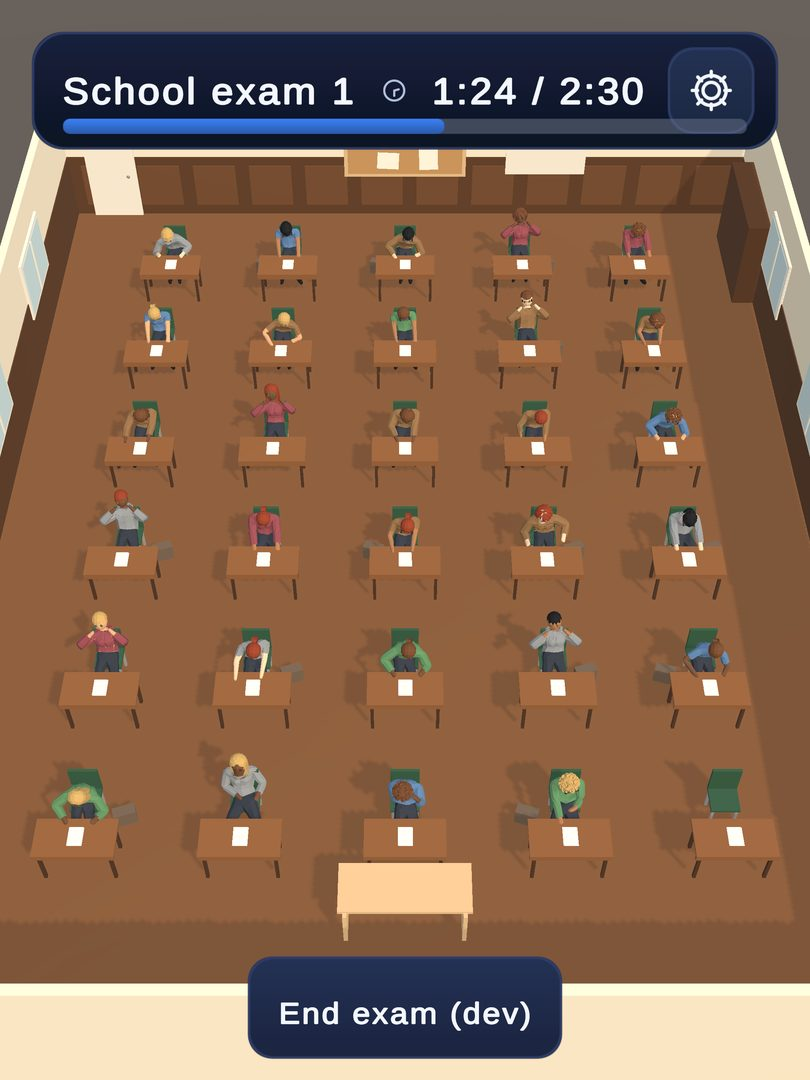
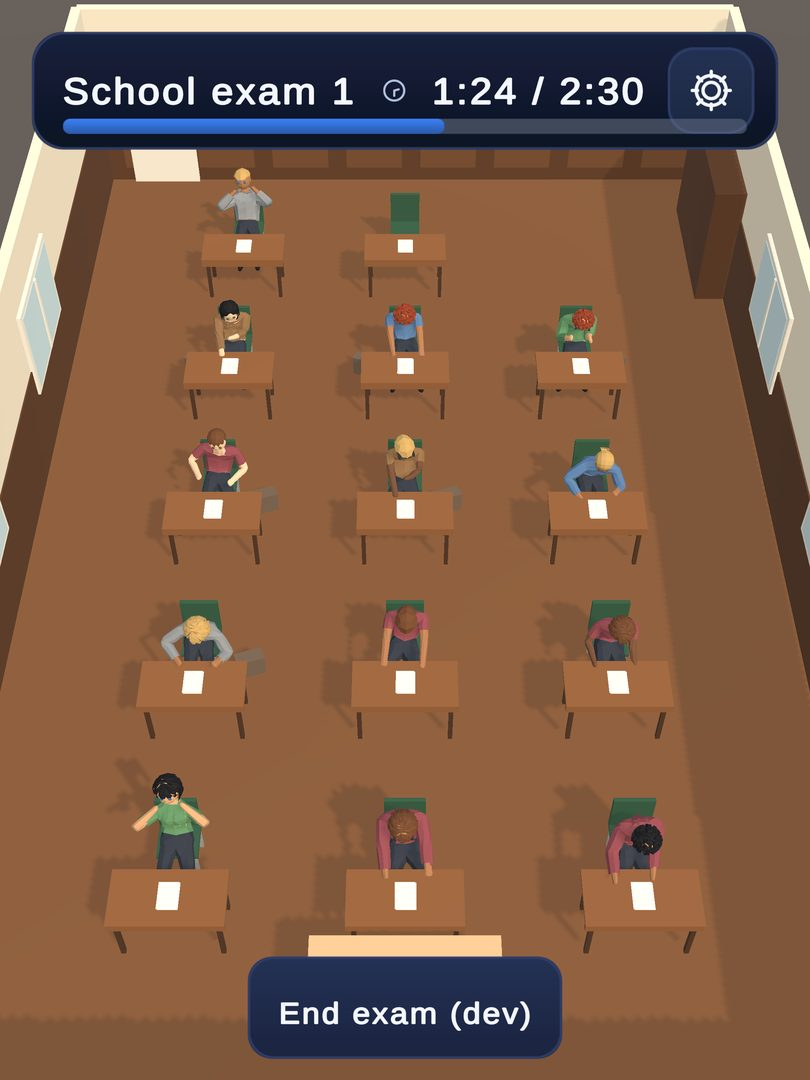
School Rooms: approved smaller rooms, scaled pace, new captures and difficulty

diff --git a/school-rooms/index.html b/school-rooms/index.html
@@ -82,77 +82,78 @@ tr.hi td { background: var(--accent-soft); }
     <span class="eyebrow">Exam Supervisor Simulator · M130</span>
     <h1>School Rooms</h1>
     <p class="lede">Every school now has its own exam room, dressed for the kind of place it is. Better-rated schools have more desks.
-      A tablet gets a bigger room than a phone. The camera zooms out until the whole class is in view, so in a bigger room
-      the people look smaller, and that is where the extra difficulty comes from. One desk is always left free, so a
-      student can be moved. Each capture below shows a full room: every desk except the free one is taken. They come
+      A tablet gets a bigger room than a phone. The camera zooms out until the whole class is in view. A bigger school has
+      more people to watch, and each of them looks smaller. The room's pace also scales with the number of people in it,
+      so a hall is busier than a classroom without becoming overwhelming. One desk is always left free, so a student can
+      be moved. Each capture below shows a full room: every desk except the free one is taken. They come
       from Play mode with the real HUD, at a phone size (1080 × 2340) and two tablet sizes (1620 × 2160 and 2048 × 2732).</p>
   </header>
 
   <section id="table">
     <div class="section-head">
       <h2>The rooms</h2>
-      <p class="muted">The students column is for a school exam, which fills 75–100% of the room's capacity (desks − 1).
-        An entrance exam fills 60–85% and a certification 45–70%. The largest cohort is always at most desks − 1. Code
+      <p class="muted">The students columns are for a school exam, which fills 80–100% of the room's capacity (desks − 1).
+        An entrance exam fills 65–90% and a certification 50–75%. The largest cohort is always at most desks − 1. Code
         enforces this, and tests check every school × exam × device.</p>
     </div>
     <div class="table-wrap"><table>
       <thead><tr><th>School</th><th>Rating</th><th>Room</th><th>Desks</th><th>Phone desks</th><th>Tablet desks</th><th>Students, phone</th><th>Students, tablet</th></tr></thead>
       <tbody>
-<tr><td>Maple Elementary School</td><td class="stars">★☆☆☆☆</td><td>Bright primary classroom</td><td>small desks, bright chairs</td><td class="num">2×3 = 6</td><td class="num">3×3 = 9</td><td class="num">4–5</td><td class="num">6–8</td></tr>
-<tr><td>Riverside Middle School</td><td class="stars">★★☆☆☆</td><td>Ordinary classroom</td><td>single desks</td><td class="num">2×5 = 10</td><td class="num">3×5 = 15</td><td class="num">7–9</td><td class="num">11–14</td></tr>
-<tr><td>Eastgate Evening College</td><td class="stars">★★☆☆☆</td><td>Evening adult classroom</td><td>tables of two</td><td class="num">2×5 = 10</td><td class="num">4×4 = 16</td><td class="num">7–9</td><td class="num">11–15</td></tr>
-<tr><td>City High School</td><td class="stars">★★★☆☆</td><td>High-school classroom</td><td>single desks</td><td class="num">3×5 = 15</td><td class="num">4×6 = 24</td><td class="num">11–14</td><td class="num">17–23</td></tr>
-<tr><td>Brightpath Prep Centre</td><td class="stars">★★☆☆☆</td><td>Rented office floor</td><td>office tables of two</td><td class="num">2×5 = 10</td><td class="num">4×4 = 16</td><td class="num">7–9</td><td class="num">11–15</td></tr>
-<tr><td>Kingsley Academy</td><td class="stars">★★★★☆</td><td>Wood-panelled room</td><td>dark wooden desks</td><td class="num">3×6 = 18</td><td class="num">5×6 = 30</td><td class="num">13–17</td><td class="num">22–29</td></tr>
-<tr><td>State University</td><td class="stars">★★★★☆</td><td>Lecture hall</td><td>benches of three, aisles</td><td class="num">3×6 = 18</td><td class="num">6×5 = 30</td><td class="num">13–17</td><td class="num">22–29</td></tr>
-<tr><td>National Examination Centre</td><td class="stars">★★★★★</td><td>Sports-hall exam room</td><td>small exam desks in rows</td><td class="num">3×7 = 21</td><td class="num">5×7 = 35</td><td class="num">15–20</td><td class="num">26–34</td></tr>
+<tr><td>Maple Elementary School</td><td class="stars">★☆☆☆☆</td><td>Bright primary classroom</td><td>small desks, bright chairs</td><td class="num">5</td><td class="num">6</td><td class="num">3–4</td><td class="num">4–5</td></tr>
+<tr><td>Riverside Middle School</td><td class="stars">★★☆☆☆</td><td>Ordinary classroom</td><td>single desks</td><td class="num">7</td><td class="num">9</td><td class="num">5–6</td><td class="num">6–8</td></tr>
+<tr><td>Eastgate Evening College</td><td class="stars">★★☆☆☆</td><td>Evening adult classroom</td><td>shared tables</td><td class="num">7</td><td class="num">9</td><td class="num">5–6</td><td class="num">6–8</td></tr>
+<tr><td>City High School</td><td class="stars">★★★☆☆</td><td>High-school classroom</td><td>single desks</td><td class="num">9</td><td class="num">12</td><td class="num">6–8</td><td class="num">9–11</td></tr>
+<tr><td>Brightpath Prep Centre</td><td class="stars">★★☆☆☆</td><td>Rented office floor</td><td>long office tables</td><td class="num">7</td><td class="num">9</td><td class="num">5–6</td><td class="num">6–8</td></tr>
+<tr><td>Kingsley Academy</td><td class="stars">★★★★☆</td><td>Wood-panelled room</td><td>dark wooden desks</td><td class="num">10</td><td class="num">14</td><td class="num">7–9</td><td class="num">10–13</td></tr>
+<tr><td>State University</td><td class="stars">★★★★☆</td><td>Lecture hall</td><td>benches of two, aisle on tablet</td><td class="num">10</td><td class="num">14</td><td class="num">7–9</td><td class="num">10–13</td></tr>
+<tr><td>National Examination Centre</td><td class="stars">★★★★★</td><td>Sports-hall exam room</td><td>small exam desks in rows</td><td class="num">12</td><td class="num">16</td><td class="num">9–11</td><td class="num">12–15</td></tr>
       </tbody></table></div>
   </section>
 
   <section id="phone">
-    <div class="section-head"><h2>On a phone</h2><p class="muted">1080 × 2340. From 6 desks at Maple up to 21 at the National Examination Centre.</p></div>
+    <div class="section-head"><h2>On a phone</h2><p class="muted">1080 × 2340. From 5 desks at Maple up to 12 at the National Examination Centre.</p></div>
     <div class="gallery">
-<figure><a href="img/phone-1080x2340-maple.jpg"><img src="img/phone-1080x2340-maple.jpg" alt="Maple Elementary School exam room, 2×3 = 6 desks, on a phone" loading="lazy"></a><figcaption><b>Maple Elementary School</b>Bright primary classroom · 2×3 = 6 desks</figcaption></figure>
-<figure><a href="img/phone-1080x2340-riverside.jpg"><img src="img/phone-1080x2340-riverside.jpg" alt="Riverside Middle School exam room, 2×5 = 10 desks, on a phone" loading="lazy"></a><figcaption><b>Riverside Middle School</b>Ordinary classroom · 2×5 = 10 desks</figcaption></figure>
-<figure><a href="img/phone-1080x2340-vocational.jpg"><img src="img/phone-1080x2340-vocational.jpg" alt="Eastgate Evening College exam room, 2×5 = 10 desks, on a phone" loading="lazy"></a><figcaption><b>Eastgate Evening College</b>Evening adult classroom · 2×5 = 10 desks</figcaption></figure>
-<figure><a href="img/phone-1080x2340-standard.jpg"><img src="img/phone-1080x2340-standard.jpg" alt="City High School exam room, 3×5 = 15 desks, on a phone" loading="lazy"></a><figcaption><b>City High School</b>High-school classroom · 3×5 = 15 desks</figcaption></figure>
-<figure><a href="img/phone-1080x2340-brightpath.jpg"><img src="img/phone-1080x2340-brightpath.jpg" alt="Brightpath Prep Centre exam room, 2×5 = 10 desks, on a phone" loading="lazy"></a><figcaption><b>Brightpath Prep Centre</b>Rented office floor · 2×5 = 10 desks</figcaption></figure>
-<figure><a href="img/phone-1080x2340-elite.jpg"><img src="img/phone-1080x2340-elite.jpg" alt="Kingsley Academy exam room, 3×6 = 18 desks, on a phone" loading="lazy"></a><figcaption><b>Kingsley Academy</b>Wood-panelled room · 3×6 = 18 desks</figcaption></figure>
-<figure><a href="img/phone-1080x2340-state-university.jpg"><img src="img/phone-1080x2340-state-university.jpg" alt="State University exam room, 3×6 = 18 desks, on a phone" loading="lazy"></a><figcaption><b>State University</b>Lecture hall · 3×6 = 18 desks</figcaption></figure>
-<figure><a href="img/phone-1080x2340-national.jpg"><img src="img/phone-1080x2340-national.jpg" alt="National Examination Centre exam room, 3×7 = 21 desks, on a phone" loading="lazy"></a><figcaption><b>National Examination Centre</b>Sports-hall exam room · 3×7 = 21 desks</figcaption></figure>
+<figure><a href="img/phone-1080x2340-maple.jpg"><img src="img/phone-1080x2340-maple.jpg" alt="Maple Elementary School exam room, 5 desks, on a phone" loading="lazy"></a><figcaption><b>Maple Elementary School</b>Bright primary classroom · 5 desks</figcaption></figure>
+<figure><a href="img/phone-1080x2340-riverside.jpg"><img src="img/phone-1080x2340-riverside.jpg" alt="Riverside Middle School exam room, 7 desks, on a phone" loading="lazy"></a><figcaption><b>Riverside Middle School</b>Ordinary classroom · 7 desks</figcaption></figure>
+<figure><a href="img/phone-1080x2340-vocational.jpg"><img src="img/phone-1080x2340-vocational.jpg" alt="Eastgate Evening College exam room, 7 desks, on a phone" loading="lazy"></a><figcaption><b>Eastgate Evening College</b>Evening adult classroom · 7 desks</figcaption></figure>
+<figure><a href="img/phone-1080x2340-standard.jpg"><img src="img/phone-1080x2340-standard.jpg" alt="City High School exam room, 9 desks, on a phone" loading="lazy"></a><figcaption><b>City High School</b>High-school classroom · 9 desks</figcaption></figure>
+<figure><a href="img/phone-1080x2340-brightpath.jpg"><img src="img/phone-1080x2340-brightpath.jpg" alt="Brightpath Prep Centre exam room, 7 desks, on a phone" loading="lazy"></a><figcaption><b>Brightpath Prep Centre</b>Rented office floor · 7 desks</figcaption></figure>
+<figure><a href="img/phone-1080x2340-elite.jpg"><img src="img/phone-1080x2340-elite.jpg" alt="Kingsley Academy exam room, 10 desks, on a phone" loading="lazy"></a><figcaption><b>Kingsley Academy</b>Wood-panelled room · 10 desks</figcaption></figure>
+<figure><a href="img/phone-1080x2340-state-university.jpg"><img src="img/phone-1080x2340-state-university.jpg" alt="State University exam room, 10 desks, on a phone" loading="lazy"></a><figcaption><b>State University</b>Lecture hall · 10 desks</figcaption></figure>
+<figure><a href="img/phone-1080x2340-national.jpg"><img src="img/phone-1080x2340-national.jpg" alt="National Examination Centre exam room, 12 desks, on a phone" loading="lazy"></a><figcaption><b>National Examination Centre</b>Sports-hall exam room · 12 desks</figcaption></figure>
 </div>
   </section>
 
   <section id="tablet">
-    <div class="section-head"><h2>On a tablet</h2><p class="muted">1620 × 2160, a 10.2-inch iPad-class screen. From 9 desks up to 35. A wider screen holds more columns, and a bigger screen keeps people readable.</p></div>
+    <div class="section-head"><h2>On a tablet</h2><p class="muted">1620 × 2160, a 10.2-inch iPad-class screen. From 6 desks up to 16.</p></div>
     <div class="gallery wide">
-<figure><a href="img/tablet-1620x2160-maple.jpg"><img src="img/tablet-1620x2160-maple.jpg" alt="Maple Elementary School exam room, 3×3 = 9 desks, on a tablet" loading="lazy"></a><figcaption><b>Maple Elementary School</b>Bright primary classroom · 3×3 = 9 desks</figcaption></figure>
-<figure><a href="img/tablet-1620x2160-riverside.jpg"><img src="img/tablet-1620x2160-riverside.jpg" alt="Riverside Middle School exam room, 3×5 = 15 desks, on a tablet" loading="lazy"></a><figcaption><b>Riverside Middle School</b>Ordinary classroom · 3×5 = 15 desks</figcaption></figure>
-<figure><a href="img/tablet-1620x2160-vocational.jpg"><img src="img/tablet-1620x2160-vocational.jpg" alt="Eastgate Evening College exam room, 4×4 = 16 desks, on a tablet" loading="lazy"></a><figcaption><b>Eastgate Evening College</b>Evening adult classroom · 4×4 = 16 desks</figcaption></figure>
-<figure><a href="img/tablet-1620x2160-standard.jpg"><img src="img/tablet-1620x2160-standard.jpg" alt="City High School exam room, 4×6 = 24 desks, on a tablet" loading="lazy"></a><figcaption><b>City High School</b>High-school classroom · 4×6 = 24 desks</figcaption></figure>
-<figure><a href="img/tablet-1620x2160-brightpath.jpg"><img src="img/tablet-1620x2160-brightpath.jpg" alt="Brightpath Prep Centre exam room, 4×4 = 16 desks, on a tablet" loading="lazy"></a><figcaption><b>Brightpath Prep Centre</b>Rented office floor · 4×4 = 16 desks</figcaption></figure>
-<figure><a href="img/tablet-1620x2160-elite.jpg"><img src="img/tablet-1620x2160-elite.jpg" alt="Kingsley Academy exam room, 5×6 = 30 desks, on a tablet" loading="lazy"></a><figcaption><b>Kingsley Academy</b>Wood-panelled room · 5×6 = 30 desks</figcaption></figure>
-<figure><a href="img/tablet-1620x2160-state-university.jpg"><img src="img/tablet-1620x2160-state-university.jpg" alt="State University exam room, 6×5 = 30 desks, on a tablet" loading="lazy"></a><figcaption><b>State University</b>Lecture hall · 6×5 = 30 desks</figcaption></figure>
-<figure><a href="img/tablet-1620x2160-national.jpg"><img src="img/tablet-1620x2160-national.jpg" alt="National Examination Centre exam room, 5×7 = 35 desks, on a tablet" loading="lazy"></a><figcaption><b>National Examination Centre</b>Sports-hall exam room · 5×7 = 35 desks</figcaption></figure>
+<figure><a href="img/tablet-1620x2160-maple.jpg"><img src="img/tablet-1620x2160-maple.jpg" alt="Maple Elementary School exam room, 6 desks, on a tablet" loading="lazy"></a><figcaption><b>Maple Elementary School</b>Bright primary classroom · 6 desks</figcaption></figure>
+<figure><a href="img/tablet-1620x2160-riverside.jpg"><img src="img/tablet-1620x2160-riverside.jpg" alt="Riverside Middle School exam room, 9 desks, on a tablet" loading="lazy"></a><figcaption><b>Riverside Middle School</b>Ordinary classroom · 9 desks</figcaption></figure>
+<figure><a href="img/tablet-1620x2160-vocational.jpg"><img src="img/tablet-1620x2160-vocational.jpg" alt="Eastgate Evening College exam room, 9 desks, on a tablet" loading="lazy"></a><figcaption><b>Eastgate Evening College</b>Evening adult classroom · 9 desks</figcaption></figure>
+<figure><a href="img/tablet-1620x2160-standard.jpg"><img src="img/tablet-1620x2160-standard.jpg" alt="City High School exam room, 12 desks, on a tablet" loading="lazy"></a><figcaption><b>City High School</b>High-school classroom · 12 desks</figcaption></figure>
+<figure><a href="img/tablet-1620x2160-brightpath.jpg"><img src="img/tablet-1620x2160-brightpath.jpg" alt="Brightpath Prep Centre exam room, 9 desks, on a tablet" loading="lazy"></a><figcaption><b>Brightpath Prep Centre</b>Rented office floor · 9 desks</figcaption></figure>
+<figure><a href="img/tablet-1620x2160-elite.jpg"><img src="img/tablet-1620x2160-elite.jpg" alt="Kingsley Academy exam room, 14 desks, on a tablet" loading="lazy"></a><figcaption><b>Kingsley Academy</b>Wood-panelled room · 14 desks</figcaption></figure>
+<figure><a href="img/tablet-1620x2160-state-university.jpg"><img src="img/tablet-1620x2160-state-university.jpg" alt="State University exam room, 14 desks, on a tablet" loading="lazy"></a><figcaption><b>State University</b>Lecture hall · 14 desks</figcaption></figure>
+<figure><a href="img/tablet-1620x2160-national.jpg"><img src="img/tablet-1620x2160-national.jpg" alt="National Examination Centre exam room, 16 desks, on a tablet" loading="lazy"></a><figcaption><b>National Examination Centre</b>Sports-hall exam room · 16 desks</figcaption></figure>
 </div>
     <p class="muted">The same rooms at 2048 × 2732 (12.9-inch) look the same and slightly larger, because the screen has the same shape and more pixels.</p>
     <div class="gallery wide">
-<figure><a href="img/tablet-2048x2732-maple.jpg"><img src="img/tablet-2048x2732-maple.jpg" alt="Maple Elementary School exam room, 3×3 = 9 desks, on a tablet" loading="lazy"></a><figcaption><b>Maple Elementary School</b>Bright primary classroom · 3×3 = 9 desks</figcaption></figure>
-<figure><a href="img/tablet-2048x2732-riverside.jpg"><img src="img/tablet-2048x2732-riverside.jpg" alt="Riverside Middle School exam room, 3×5 = 15 desks, on a tablet" loading="lazy"></a><figcaption><b>Riverside Middle School</b>Ordinary classroom · 3×5 = 15 desks</figcaption></figure>
-<figure><a href="img/tablet-2048x2732-vocational.jpg"><img src="img/tablet-2048x2732-vocational.jpg" alt="Eastgate Evening College exam room, 4×4 = 16 desks, on a tablet" loading="lazy"></a><figcaption><b>Eastgate Evening College</b>Evening adult classroom · 4×4 = 16 desks</figcaption></figure>
-<figure><a href="img/tablet-2048x2732-standard.jpg"><img src="img/tablet-2048x2732-standard.jpg" alt="City High School exam room, 4×6 = 24 desks, on a tablet" loading="lazy"></a><figcaption><b>City High School</b>High-school classroom · 4×6 = 24 desks</figcaption></figure>
-<figure><a href="img/tablet-2048x2732-brightpath.jpg"><img src="img/tablet-2048x2732-brightpath.jpg" alt="Brightpath Prep Centre exam room, 4×4 = 16 desks, on a tablet" loading="lazy"></a><figcaption><b>Brightpath Prep Centre</b>Rented office floor · 4×4 = 16 desks</figcaption></figure>
-<figure><a href="img/tablet-2048x2732-elite.jpg"><img src="img/tablet-2048x2732-elite.jpg" alt="Kingsley Academy exam room, 5×6 = 30 desks, on a tablet" loading="lazy"></a><figcaption><b>Kingsley Academy</b>Wood-panelled room · 5×6 = 30 desks</figcaption></figure>
-<figure><a href="img/tablet-2048x2732-state-university.jpg"><img src="img/tablet-2048x2732-state-university.jpg" alt="State University exam room, 6×5 = 30 desks, on a tablet" loading="lazy"></a><figcaption><b>State University</b>Lecture hall · 6×5 = 30 desks</figcaption></figure>
-<figure><a href="img/tablet-2048x2732-national.jpg"><img src="img/tablet-2048x2732-national.jpg" alt="National Examination Centre exam room, 5×7 = 35 desks, on a tablet" loading="lazy"></a><figcaption><b>National Examination Centre</b>Sports-hall exam room · 5×7 = 35 desks</figcaption></figure>
+<figure><a href="img/tablet-2048x2732-maple.jpg"><img src="img/tablet-2048x2732-maple.jpg" alt="Maple Elementary School exam room, 6 desks, on a tablet" loading="lazy"></a><figcaption><b>Maple Elementary School</b>Bright primary classroom · 6 desks</figcaption></figure>
+<figure><a href="img/tablet-2048x2732-riverside.jpg"><img src="img/tablet-2048x2732-riverside.jpg" alt="Riverside Middle School exam room, 9 desks, on a tablet" loading="lazy"></a><figcaption><b>Riverside Middle School</b>Ordinary classroom · 9 desks</figcaption></figure>
+<figure><a href="img/tablet-2048x2732-vocational.jpg"><img src="img/tablet-2048x2732-vocational.jpg" alt="Eastgate Evening College exam room, 9 desks, on a tablet" loading="lazy"></a><figcaption><b>Eastgate Evening College</b>Evening adult classroom · 9 desks</figcaption></figure>
+<figure><a href="img/tablet-2048x2732-standard.jpg"><img src="img/tablet-2048x2732-standard.jpg" alt="City High School exam room, 12 desks, on a tablet" loading="lazy"></a><figcaption><b>City High School</b>High-school classroom · 12 desks</figcaption></figure>
+<figure><a href="img/tablet-2048x2732-brightpath.jpg"><img src="img/tablet-2048x2732-brightpath.jpg" alt="Brightpath Prep Centre exam room, 9 desks, on a tablet" loading="lazy"></a><figcaption><b>Brightpath Prep Centre</b>Rented office floor · 9 desks</figcaption></figure>
+<figure><a href="img/tablet-2048x2732-elite.jpg"><img src="img/tablet-2048x2732-elite.jpg" alt="Kingsley Academy exam room, 14 desks, on a tablet" loading="lazy"></a><figcaption><b>Kingsley Academy</b>Wood-panelled room · 14 desks</figcaption></figure>
+<figure><a href="img/tablet-2048x2732-state-university.jpg"><img src="img/tablet-2048x2732-state-university.jpg" alt="State University exam room, 14 desks, on a tablet" loading="lazy"></a><figcaption><b>State University</b>Lecture hall · 14 desks</figcaption></figure>
+<figure><a href="img/tablet-2048x2732-national.jpg"><img src="img/tablet-2048x2732-national.jpg" alt="National Examination Centre exam room, 16 desks, on a tablet" loading="lazy"></a><figcaption><b>National Examination Centre</b>Sports-hall exam room · 16 desks</figcaption></figure>
 </div>
   </section>
 
   <section id="focus">
     <div class="section-head"><h2>Leaning in still works</h2>
       <p class="muted">The M113.1 interaction focus is unchanged. When you walk to a candidate, the camera leans in on them from the
-        zoomed-out view, in any room. In the National hall the farthest candidate grows from 156 to 545 px on a phone and from
-        131 to 517 px on a 10.2-inch tablet, and sits at 0.62 of the screen height, above the action card.</p></div>
+        zoomed-out view, in any room. In the National hall the farthest candidate grows from 169 to 524 px on a phone and from
+        182 to 517 px on a 10.2-inch tablet, and sits at 0.62 of the screen height, above the action card.</p></div>
     <div class="trio">
       <figure><a href="img/phone-1080x2340-focus-national.jpg"><img src="img/phone-1080x2340-focus-national.jpg" alt="Phone: the camera leaning in on a back-row candidate in the National hall" loading="lazy"></a><figcaption>Phone, National hall, leaning in on the back row</figcaption></figure>
       <figure><a href="img/tablet-1620x2160-focus-national.jpg"><img src="img/tablet-1620x2160-focus-national.jpg" alt="Tablet: the camera leaning in on a back-row candidate in the National hall" loading="lazy"></a><figcaption>Tablet, National hall, leaning in on the back row</figcaption></figure>
@@ -162,10 +163,11 @@ tr.hi td { background: var(--accent-soft); }
   <section id="calibration">
     <div class="section-head"><h2>How the sizes were chosen</h2></div>
     <div class="cards">
-      <div class="card"><span class="eyebrow">Readability floor</span><span class="big">95 / 84 px</span><p>The minimum height of the farthest seated body: 95 px on a 1080 × 2340 phone and 84 px on a 1620 × 2160 tablet. Both are the same visual angle, about 1.15°: 6 mm at 30 cm on a phone, 8 mm at 40 cm on a tablet.</p></div>
-      <div class="card"><span class="eyebrow">Largest room</span><span class="big">21 / 35</span><p>The largest exam hall that stays above the floor, as calibrated: 3 × 7 desks on a phone and 5 × 7 on a tablet. One more row or column falls below the floor, and a test checks that.</p></div>
-      <div class="card"><span class="eyebrow">Camera</span><span class="big">fit all</span><p>The camera position is solved exactly from the room and the screen shape. Every desk and body is in frame, clear of the HUD, from as close as possible. It is re-solved only when the room or the screen shape changes.</p></div>
-      <div class="card"><span class="eyebrow">Device class</span><span class="big">shape + size</span><p>The device class is decided from the screen's shape and physical size, not the platform. A screen counts as a tablet if it is at most 1.8:1 and at least 7 inches across. That covers Android tablets, unfolded foldables and iPads alike.</p></div>
+      <div class="card"><span class="eyebrow">Desk counts</span><span class="big">5 → 12 / 6 → 16</span><p>Phone and tablet desk counts, ordered by the school's rating. Schools with the same rating get the same count. This is an approved design table. A first version sized rooms to what a screen can legibly show (21 and 35 desks), and that was too many for one supervisor.</p></div>
+      <div class="card"><span class="eyebrow">Readability floor</span><span class="big">95 / 84 px</span><p>The floor is now a safety bound, not the target. The farthest seated body must be at least 95 px tall on a 1080 × 2340 phone and 84 px on a 1620 × 2160 tablet. Every room clears it by at least 15%: the smallest is 113 px on a phone and 118 px on a tablet.</p></div>
+      <div class="card"><span class="eyebrow">Room pace</span><span class="big">scaled</span><p>Above three people, the quiet spell after an incident gets longer with the size of the room. One more incident may run at once per five people, and from ten people there is a third raised hand. So the room is busier at any moment, while incidents per exam grow slowly.</p></div>
+      <div class="card"><span class="eyebrow">Camera</span><span class="big">fit all</span><p>The camera position is solved exactly from the room and the screen shape. Every desk and body is in frame, clear of the HUD, from as close as possible.</p></div>
+      <div class="card"><span class="eyebrow">Device class</span><span class="big">shape + size</span><p>A screen counts as a tablet if it is at most 1.8:1 and at least 7 inches across. This covers Android tablets, unfolded foldables and iPads. The platform name is never used.</p></div>
     </div>
   </section>
 
@@ -173,26 +175,26 @@ tr.hi td { background: var(--accent-soft); }
     <div class="section-head"><h2>What it does to difficulty</h2>
       <p class="muted">A careful bot played 16 careers held at each school. The same seeds were played in the old six-seat room, the phone room and the tablet room. Only exams actually held at that school are counted.</p></div>
     <div class="table-wrap"><table>
-      <thead><tr><th>School</th><th>Missed per exam: old / phone / tablet</th><th>Good exams: old / phone / tablet</th><th>Standing per exam</th></tr></thead>
+      <thead><tr><th>School</th><th>People: old / phone / tablet</th><th>Missed per exam</th><th>Good exams</th><th>Standing per exam</th></tr></thead>
       <tbody>
-        <tr><td>Maple</td><td class="num">0.19 / 0.15 / 0.21</td><td class="num">83% / 86% / 81%</td><td class="num">+1.7 / +1.9 / +2.0</td></tr>
-        <tr><td>Riverside</td><td class="num">0.23 / 0.26 / 0.59</td><td class="num">81% / 74% / 52%</td><td class="num">+1.6 / +1.3 / +1.2</td></tr>
-        <tr><td>City High</td><td class="num">0.10 / 0.73 / 0.82</td><td class="num">92% / 58% / 45%</td><td class="num">+2.0 / +1.7 / +1.2</td></tr>
-        <tr><td>Kingsley</td><td class="num">0.18 / 1.11 / 1.42</td><td class="num">87% / 37% / 22%</td><td class="num">+2.2 / +1.2 / +0.2</td></tr>
-        <tr><td>State University</td><td class="num">0.13 / 0.84 / 1.36</td><td class="num">89% / 44% / 30%</td><td class="num">+2.2 / +1.0 / +1.7</td></tr>
-        <tr><td>National</td><td class="num">0.16 / 1.03 / 1.47</td><td class="num">87% / 39% / 23%</td><td class="num">+1.4 / +0.6 / +0.7</td></tr>
+        <tr><td>Maple</td><td class="num">4.9 / 3.2 / 4.1</td><td class="num">0.19 / 0.00 / 0.09</td><td class="num">83% / 100% / 92%</td><td class="num">+1.7 / +2.0 / +2.0</td></tr>
+        <tr><td>Riverside</td><td class="num">4.4 / 4.7 / 5.9</td><td class="num">0.23 / 0.14 / 0.37</td><td class="num">81% / 86% / 63%</td><td class="num">+1.6 / +1.8 / +1.6</td></tr>
+        <tr><td>City High</td><td class="num">3.9 / 4.8 / 7.1</td><td class="num">0.10 / 0.45 / 0.40</td><td class="num">92% / 63% / 71%</td><td class="num">+2.0 / +1.6 / +1.7</td></tr>
+        <tr><td>Kingsley</td><td class="num">3.3 / 5.3 / 7.3</td><td class="num">0.18 / 0.37 / 0.40</td><td class="num">87% / 69% / 66%</td><td class="num">+2.2 / +1.3 / +1.6</td></tr>
+        <tr><td>State University</td><td class="num">3.2 / 5.3 / 7.6</td><td class="num">0.13 / 0.30 / 0.48</td><td class="num">89% / 76% / 62%</td><td class="num">+2.2 / +1.8 / +1.5</td></tr>
+        <tr><td>National</td><td class="num">3.3 / 6.2 / 8.8</td><td class="num">0.16 / 0.30 / 0.52</td><td class="num">87% / 77% / 62%</td><td class="num">+1.4 / +1.0 / +0.9</td></tr>
       </tbody></table></div>
-    <p class="muted">The room is now where the difficulty comes from. Maple is as easy as before, and the top schools are much harder,
-      more so on a tablet. Standing still rises at every school. A careful 21-exam career ends with less money: about 730 coins
-      instead of about 1,300 (median). That is worth a design decision.</p>
+    <p class="muted">Maple is the easiest room in the game. The top schools are clearly harder, and harder still on a tablet,
+      but careful play is still mostly Good: 77% on a phone and 62% on a tablet at the National centre. Standing still
+      rises at every school. Over 36 careful 20-exam careers, the median final coins are 1112, against 1205 in the old room (−8%).</p>
   </section>
 
   <section id="perf">
     <div class="section-head"><h2>Cost</h2></div>
     <ul class="next">
-      <li><b>Simulation:</b> 0.5 µs per step with 5 candidates, 1.9 µs with 20 and 3.6 µs with 34 (headless benchmark). Negligible.</li>
-      <li><b>Rendering in the editor:</b> 0.7 ms per frame with 5 candidates, 1.3 ms with 20 and 2.3 ms with 34. It grows roughly linearly with the number of bodies. This is not a device measurement.</li>
-      <li><b>Not yet verified:</b> the frame rate on a real phone or tablet, and how readable the smallest rooms' signals are to a human in a playtest.</li>
+      <li><b>Simulation:</b> 0.5 µs per step with 4–5 candidates, 1.0 µs with 11 and 1.4 µs with 15 (headless benchmark). Negligible.</li>
+      <li><b>Rendering in the editor:</b> 0.6 ms per frame for Maple and 1.1–1.4 ms for the 16-desk tablet hall. This is not a device measurement.</li>
+      <li><b>Not yet verified:</b> the frame rate on a real phone or tablet, and how the rooms play for a human rather than the bot.</li>
     </ul>
   </section>
 </div>

diff --git a/index.html b/index.html
@@ -80,7 +80,7 @@ header { padding-block: 40px 0; display: grid; gap: 16px; }
         <a href="school-rooms/">
           <time datetime="2026-10-27">2026-10-27</time>
           <h2>School Rooms</h2>
-          <p>Each of the eight schools has its own exam room, dressed for the kind of place it is. Rooms grow with the school's rating and are bigger on tablets, and the camera zooms out to show the whole class. Captures on a phone and two tablet sizes, how the sizes were calibrated, and what it does to difficulty.</p>
+          <p>Each of the eight schools has its own exam room, dressed for the kind of place it is. Rooms grow with the school's rating (5 to 12 desks on a phone, 6 to 16 on a tablet), the camera zooms out to show the whole class, and the room's pace scales with its size. Captures on a phone and two tablet sizes, how the sizes were chosen, and what it does to difficulty.</p>
         </a>
       </li>
       <li class="report">
